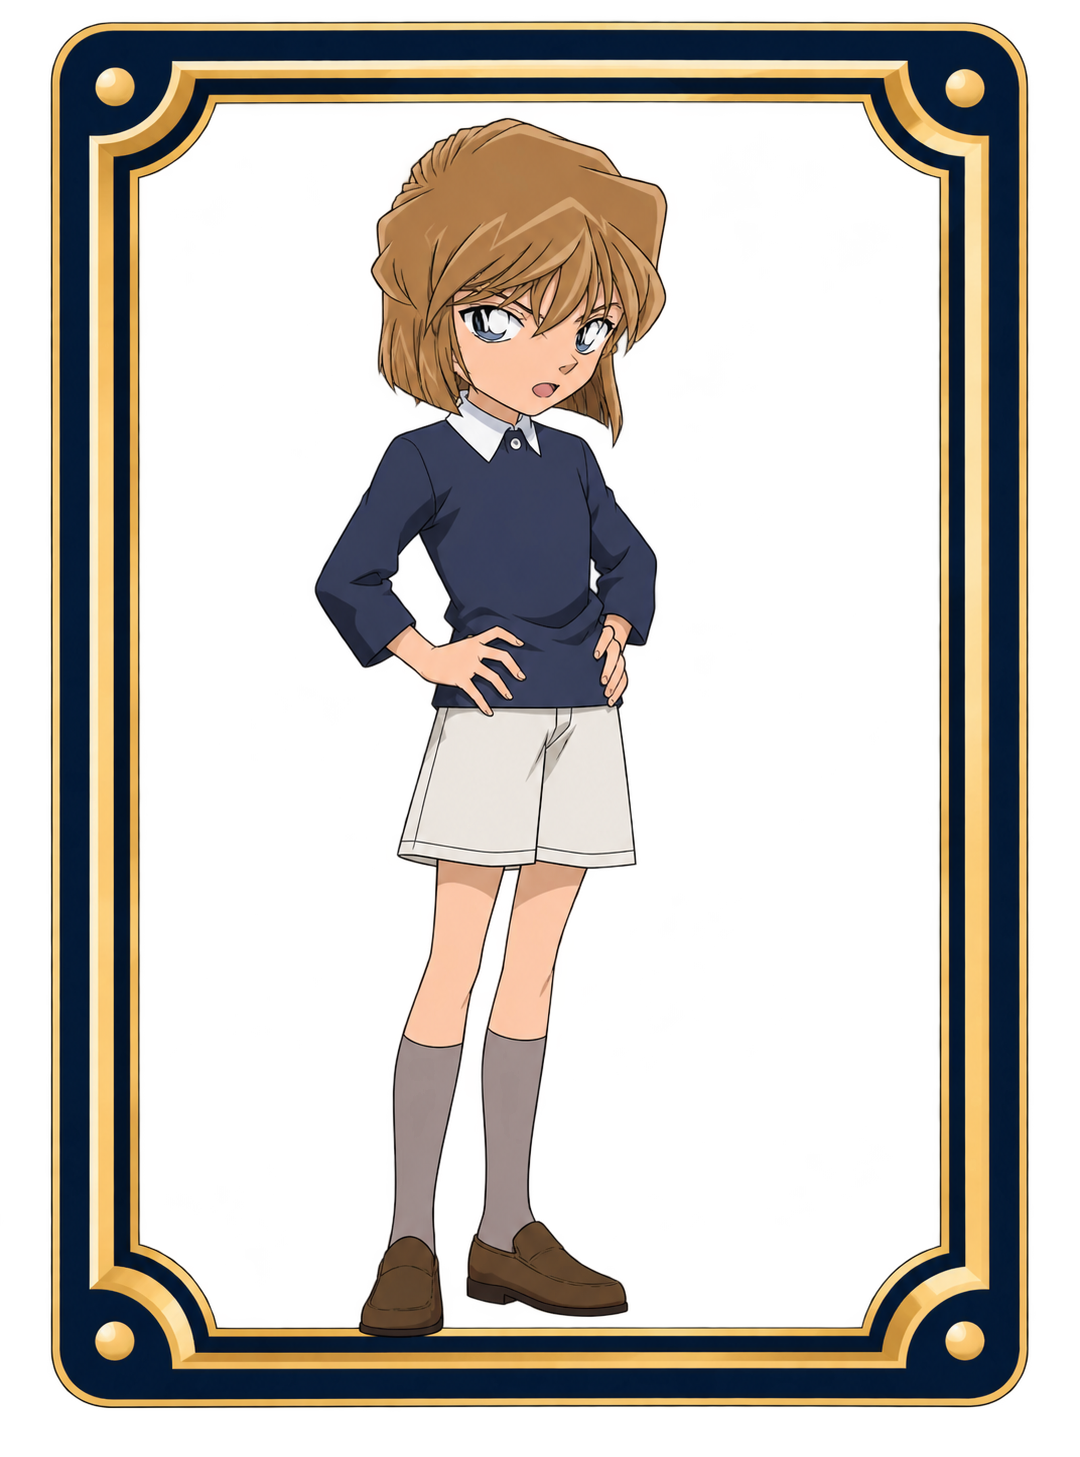
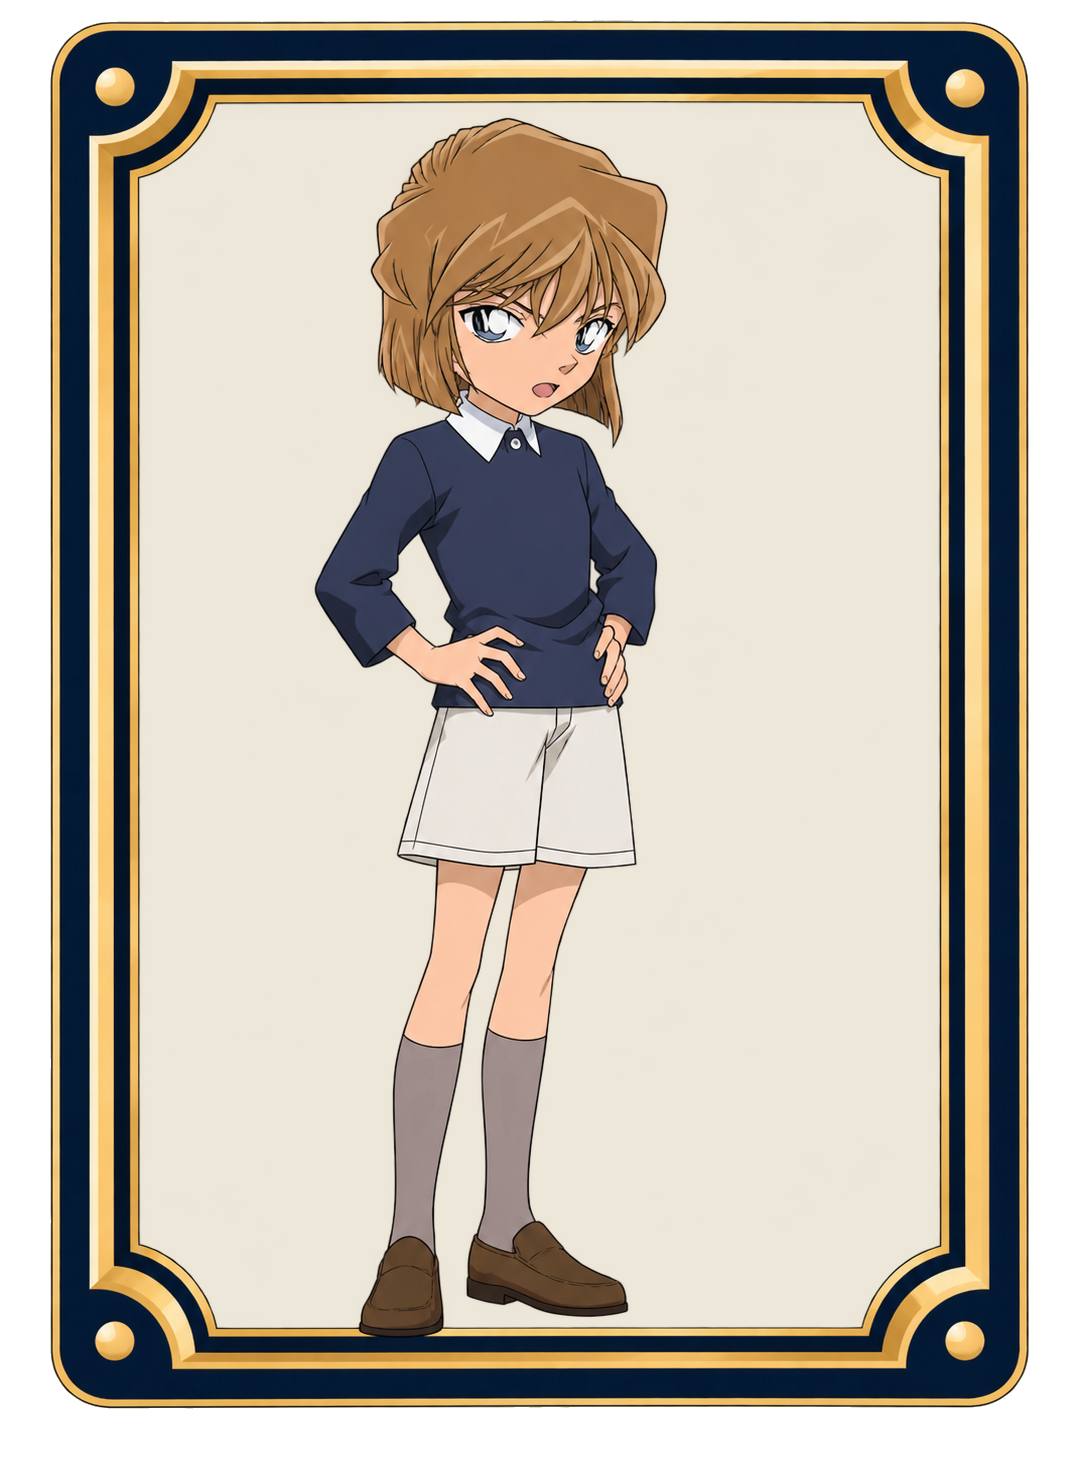
updated some images background color + updated readme

diff --git a/index.html b/index.html
@@ -18,7 +18,7 @@
     
     <div class="top-section">
         <div class="time-score">
-    <div id="time-div"><p id="time"><span id="time-value">45</span>s</p></div>
+    <div id="time-div"><p id="time"><span id="time-value">25</span>s</p></div>
     <div id="score-div"><p id="score"><span id="score-value">0</span>/6</p></div>
  </div>
  <header class="title">
@@ -49,7 +49,7 @@
  </div>
      <div class="msg-btn"> 
         <button id="restart-btn">Replay</button> 
-        <button id="bonus-btn"><a href="./bonusGame.html">Bonus Round</a> </button></div> 
+        <!-- <button id="bonus-btn"><a href="./bonusGame.html">Bonus Round</a> </button></div>  -->
     </div>
     <img id="culprit-image" src="./assets/culprit-sec-img.png" alt="Detective Conan Culprit Image">
     <img id="capsule-image" src="./assets/capsule.png" alt="APT capsule Image">

diff --git a/app.js b/app.js
@@ -93,7 +93,7 @@ let secondCardElm = null //tracks the html element of the second card
 let firstCardIndex = null //tracks the index of the first card in the cards array
 let secondCardIndex = null//tracks the index of the second card in the cards array
 
-let time = 45
+let time = 25
 let score= 0
 let timeInterval=null
 let gameOver = false //tracks if all the cards are flipped or the time has run out
@@ -248,7 +248,7 @@ function restartGame(){
  firstCardIndex = null 
  secondCardIndex = null
 
- time = 45
+ time = 25
  score= 0
  timeInterval=null
  gameOver = false 

diff --git a/style.css b/style.css
@@ -129,6 +129,8 @@ body{
     align-items: center;
     
  }
+ /* Some of this code is inspired by understanding these concepts
+  https://developer.mozilla.org/en-US/docs/Web/CSS/Reference/Properties/transition */
  .back-card-image{
   height: 185px;
   width: 158px;

diff --git a/README.md b/README.md
@@ -1,6 +1,6 @@
 # Memory Mystery Game
 
-## Overview
+## Description
 A Detective Conan-inspired memory game where players match character pairs within 45 seconds and test their Detective Conan knowledge in a bonus round.
 
 ## Technologies used
@@ -24,7 +24,17 @@ A Detective Conan-inspired memory game where players match character pairs withi
 
 ![Welcome page of the memory mystery game](./prototype/MM-prototype2.png)
 
-## Refrences
+## Screenshots
+![Welcome page](./Screenshots/Welcome-page.png)
+
+![Game Page](./Screenshots/Game-page.png)
+
+![Game Page Bottom](./Screenshots/Game-page-bottom.png)
+
+## Future Enhancements
+1. Add a bonus round where the user can gain extra points by answering some detective conan trivia questions
+
+## Credits
  1. https://developer.mozilla.org/en-US/docs/Web/CSS/Reference/Properties/object-position , this refrence was used for fixing the postion of the decorative images in the pages
  
  2. https://developer.mozilla.org/en-US/docs/Web/CSS/Reference/Values/clamp this refrence was used for fixing the postion of the decorative images in the pages
@@ -32,5 +42,7 @@ A Detective Conan-inspired memory game where players match character pairs withi
  3. https://sweetalert2.github.io/ this refrence was used to display winning and losing messages
 
  4. https://developer.mozilla.org/en-US/docs/Web/Media/Guides/Autoplay? , https://developer.mozilla.org/en-US/docs/Web/HTML/Reference/Elements/audio? These refrences were used for the adding of the audio (background music)
+
+ 5. https://developer.mozilla.org/en-US/docs/Web/CSS/Reference/Properties/transition used for card flipping transtion 
 
 
